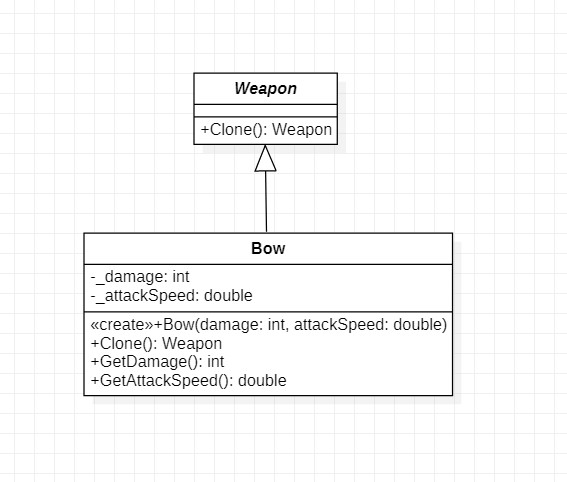
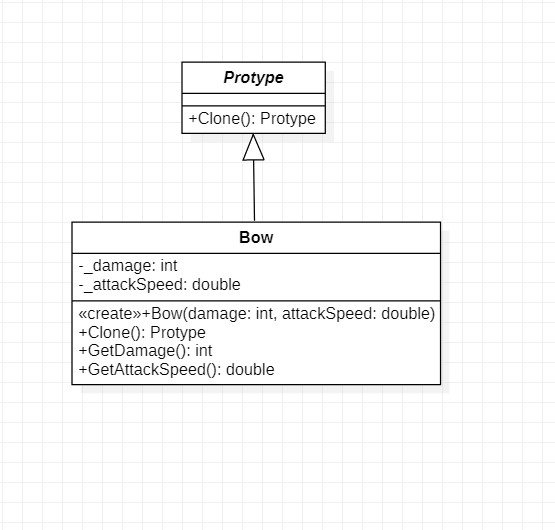
Changed Weapon to Prototype

Changed region(s): [[0.1225, 0.0934, 0.827, 0.8402]]

diff --git a/Prototype/PrototypeProgram.cs b/Prototype/PrototypeProgram.cs
@@ -2,12 +2,12 @@
 
 namespace Prototype
 {
-    public abstract class Weapon
+    public abstract class Protype
     {
-        public abstract Weapon Clone();
+        public abstract Protype Clone();
     }
 
-    public class Bow : Weapon
+    public class Bow : Protype
     {
         private int _damage;
         private double _attackSpeed;
@@ -18,7 +18,7 @@ namespace Prototype
             _attackSpeed = attackSpeed;
         }
 
-        public override Weapon Clone()
+        public override Protype Clone()
         {
             return (Bow) this.MemberwiseClone();
         }
@@ -38,8 +38,8 @@ namespace Prototype
     {
         static void Main(string[] args)
         {
-            Weapon bow = new Bow(50, 1.5);
-            Weapon clone = bow.Clone();
+            Protype bow = new Bow(50, 1.5);
+            Protype clone = bow.Clone();
 
             if (bow is Bow firstBow)
             {
